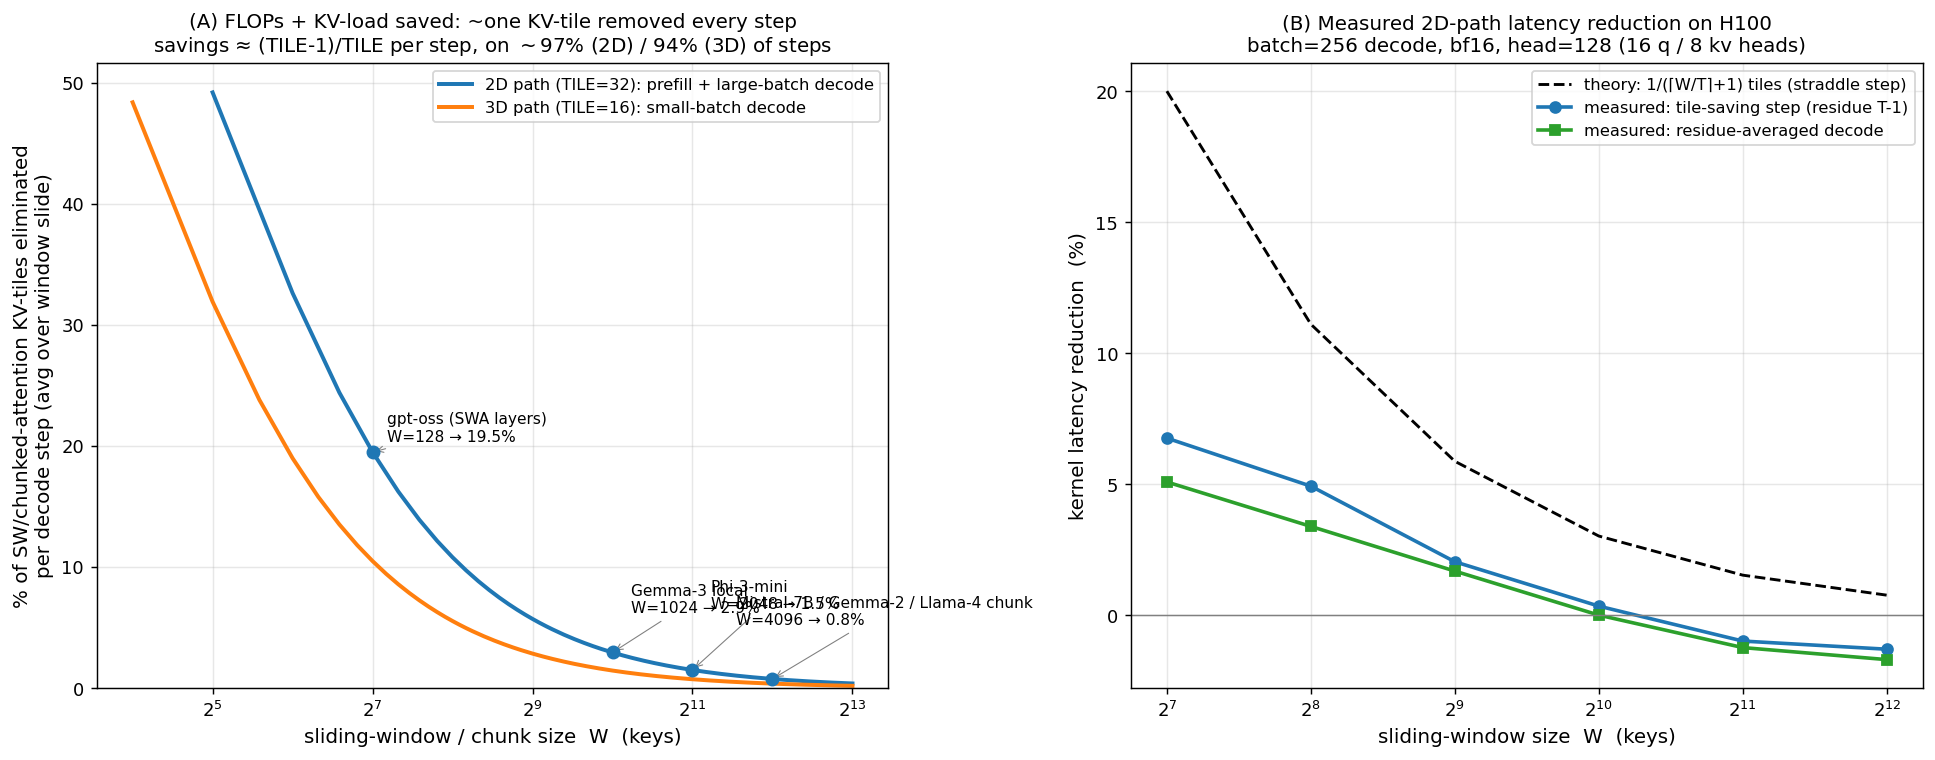
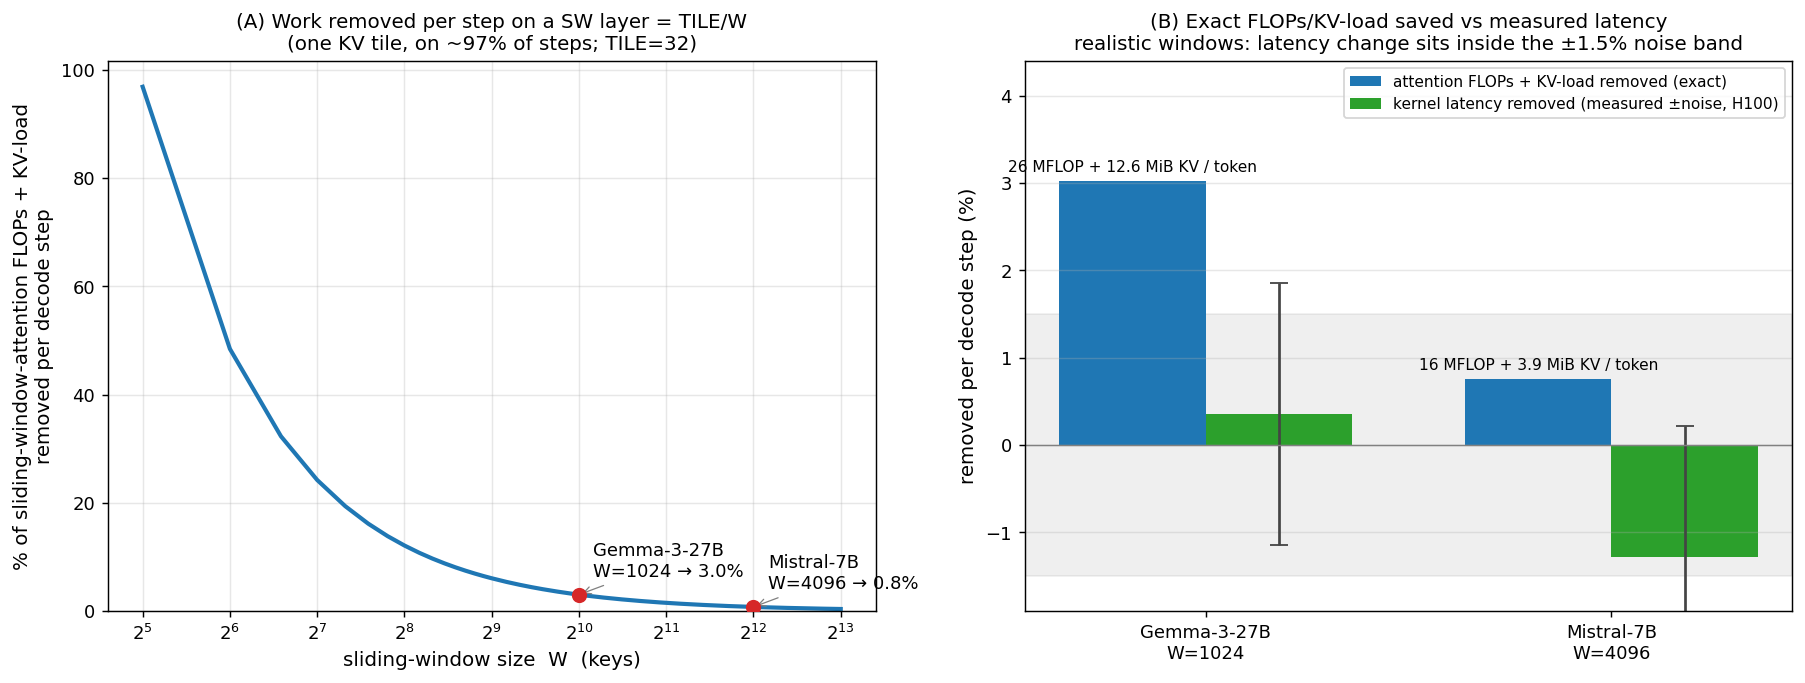
FLOPs figure: drop gpt-oss outlier, use 2 realistic configs (Gemma-3 W=1024, Mistral-7B W=4096) with exact FLOPs/KV + measured latency vs noise band

diff --git a/benchmarks/flops_realistic.py b/benchmarks/flops_realistic.py
@@ -1,0 +1,100 @@
+"""Realistic FLOPs / KV-load + measured-latency accounting for 2 real SWA models.
+No gpt-oss outlier. Exact FLOPs (deterministic) + measured H100 kernel latency.
+"""
+import json
+import math
+import numpy as np
+import matplotlib
+matplotlib.use("Agg")
+import matplotlib.pyplot as plt
+
+OUT = "/tmp/pr44584/out"
+ASSET = "/tmp/pr44584/assets"
+
+# 2D pointer path tile (prefill + large-batch decode). Gemma-3 forces 32 anyway.
+T = 32
+
+
+def avg_tiles_saved(W, T):
+    floor = [math.ceil((r + W) / T) for r in range(T)]
+    return sum(floor) / T - math.ceil(W / T)   # = (T-1)/T for W % T == 0
+
+
+CONFIGS = [
+    # name, window, q_heads, kv_heads, head_dim, n_sw_layers, params, label
+    ("Gemma-3-27B (local layers)", 1024, 32, 16, 128, 52, 27e9, "Gemma-3-27B\nW=1024"),
+    ("Mistral-7B-v0.1 (all layers)", 4096, 32, 8, 128, 32, 7.24e9, "Mistral-7B\nW=4096"),
+]
+GEN = 4096  # tokens generated, for the cumulative column
+
+# measured kernel latency (2D path, straddle = a tile-saving step) from bench2
+b2 = json.load(open(f"{OUT}/bench2_summary.json"))
+meas = {r["sw"]: r["saved_pct"] for r in b2["straddle2d"]}
+meas_avg = {r["sw"]: r["saved_pct"] for r in b2["avg2d"]}
+
+rows = []
+print(f"{'config':32s} {'%attn':>6} {'MFLOP/tok':>10} {'MiB-KV/tok':>11} "
+      f"{'%model':>7} {'GFLOP/'+str(GEN):>10} {'meas lat':>9}")
+for name, W, nq, nkv, hd, L, P, lab in CONFIGS:
+    s = avg_tiles_saved(W, T)                       # ~0.969 tiles
+    flops_tile = 4 * nq * T * hd                    # QK^T + PV over T keys, per token
+    kv_tile = 2 * T * hd * nkv * 2                  # K+V tile, bf16, all kv heads
+    fl_layer = s * flops_tile                       # per step per SW layer
+    kv_layer = s * kv_tile
+    fl_tok = fl_layer * L                           # per generated token (all SW layers)
+    kv_tok = kv_layer * L
+    pct_attn = 100 * s * T / W                      # of that layer's attention FLOPs/KV
+    pct_model = 100 * fl_tok / (2 * P)              # of total model FLOPs/token (2*params)
+    gflops_gen = fl_tok * GEN / 1e9
+    rows.append(dict(name=name, W=W, lab=lab, pct_attn=pct_attn, mflop_tok=fl_tok / 1e6,
+                     mib_kv_tok=kv_tok / 2**20, pct_model=pct_model, gflops_gen=gflops_gen,
+                     meas=meas.get(W), meas_avg=meas_avg.get(W), tiles=math.ceil(W / T)))
+    print(f"{name:32s} {pct_attn:5.1f}% {fl_tok/1e6:9.1f} {kv_tok/2**20:10.1f} "
+          f"{pct_model:6.2f}% {gflops_gen:9.1f} {meas.get(W):+7.1f}%")
+
+# ---------------------------------------------------------------- figure
+fig, (axA, axB) = plt.subplots(1, 2, figsize=(14, 5.4))
+
+# Panel A: % of SW-attention FLOPs + KV-load removed per step vs window (TILE=32)
+Ws = np.array([t for t in range(T, 8192 + 1, T)])
+axA.plot(Ws, [100 * avg_tiles_saved(int(w), T) * T / w for w in Ws], color="#1f77b4", lw=2.3)
+for r in rows:
+    axA.scatter([r["W"]], [r["pct_attn"]], color="#d62728", zorder=5, s=55)
+    axA.annotate(f"{r['lab']} → {r['pct_attn']:.1f}%", (r["W"], r["pct_attn"]),
+                 textcoords="offset points", xytext=(8, 10), fontsize=10,
+                 arrowprops=dict(arrowstyle="->", lw=0.7, color="grey"))
+axA.set_xscale("log", base=2)
+axA.set_xlabel("sliding-window size  W  (keys)", fontsize=11)
+axA.set_ylabel("% of sliding-window-attention FLOPs + KV-load\nremoved per decode step", fontsize=11)
+axA.set_title("(A) Work removed per step on a SW layer = TILE/W\n"
+              "(one KV tile, on ~97% of steps; TILE=32)", fontsize=11)
+axA.grid(True, which="both", alpha=0.3)
+axA.set_ylim(0, None)
+
+# Panel B: per-config FLOPs-saved (%) vs measured latency-saved (%)
+labels = [r["lab"] for r in rows]
+x = np.arange(len(rows)); w = 0.36
+flops_pct = [r["pct_attn"] for r in rows]
+lat_pct = [r["meas"] for r in rows]
+NOISE = 1.5  # H100 measurement noise floor (% latency), from the window sweep spread
+b1 = axB.bar(x - w / 2, flops_pct, w, label="attention FLOPs + KV-load removed (exact)", color="#1f77b4")
+b2b = axB.bar(x + w / 2, lat_pct, w, yerr=NOISE, capsize=5, ecolor="#444",
+              label="kernel latency removed (measured ±noise, H100)", color="#2ca02c")
+axB.axhline(0, color="grey", lw=0.8)
+axB.axhspan(-NOISE, NOISE, color="grey", alpha=0.12, zorder=0)
+for r, xi in zip(rows, x):
+    axB.annotate(f"{r['mflop_tok']:.0f} MFLOP + {r['mib_kv_tok']:.1f} MiB KV / token",
+                 (xi - w / 2, r["pct_attn"]), textcoords="offset points", xytext=(0, 5),
+                 ha="center", fontsize=8.5)
+axB.set_xticks(x); axB.set_xticklabels(labels, fontsize=10)
+axB.set_ylim(-1.9, 4.4)
+axB.set_ylabel("removed per decode step (%)", fontsize=11)
+axB.set_title("(B) Exact FLOPs/KV-load saved vs measured latency\n"
+              "realistic windows: latency change sits inside the ±1.5% noise band", fontsize=11)
+axB.legend(fontsize=8.5, loc="upper right")
+axB.grid(True, axis="y", alpha=0.3)
+
+plt.tight_layout()
+fig.savefig(f"{ASSET}/pr44584_flops_savings.png", dpi=130, bbox_inches="tight")
+print(f"\nwrote {ASSET}/pr44584_flops_savings.png")
+print("measured latency (avg-residue):", {r["W"]: r["meas_avg"] for r in rows})